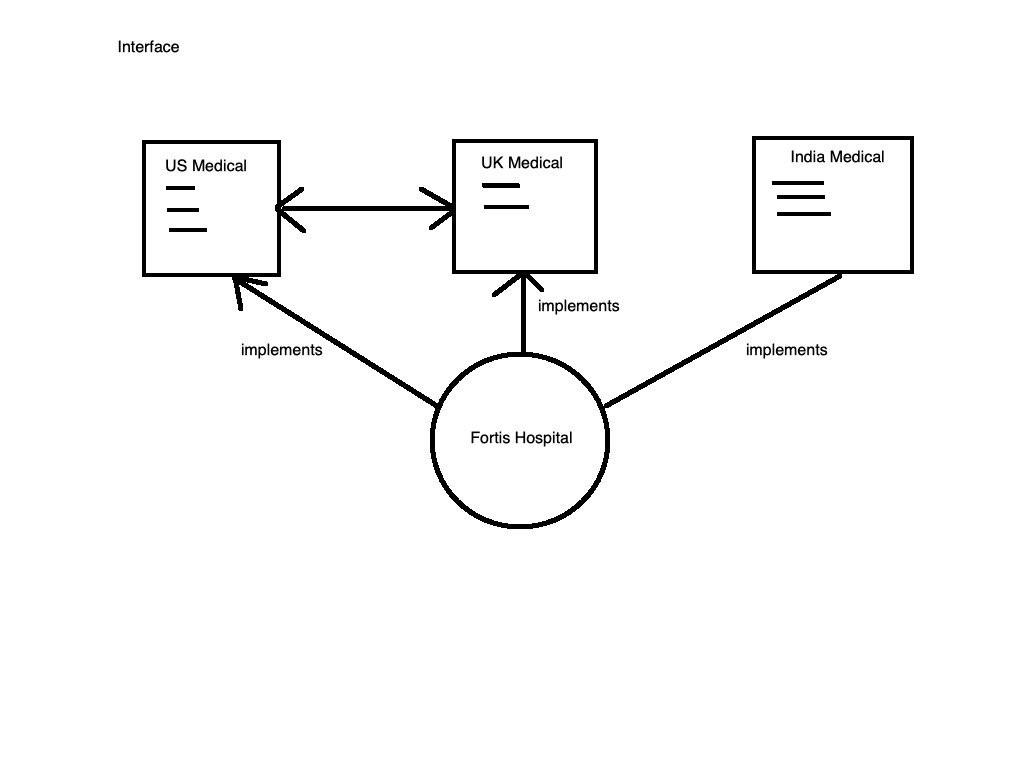
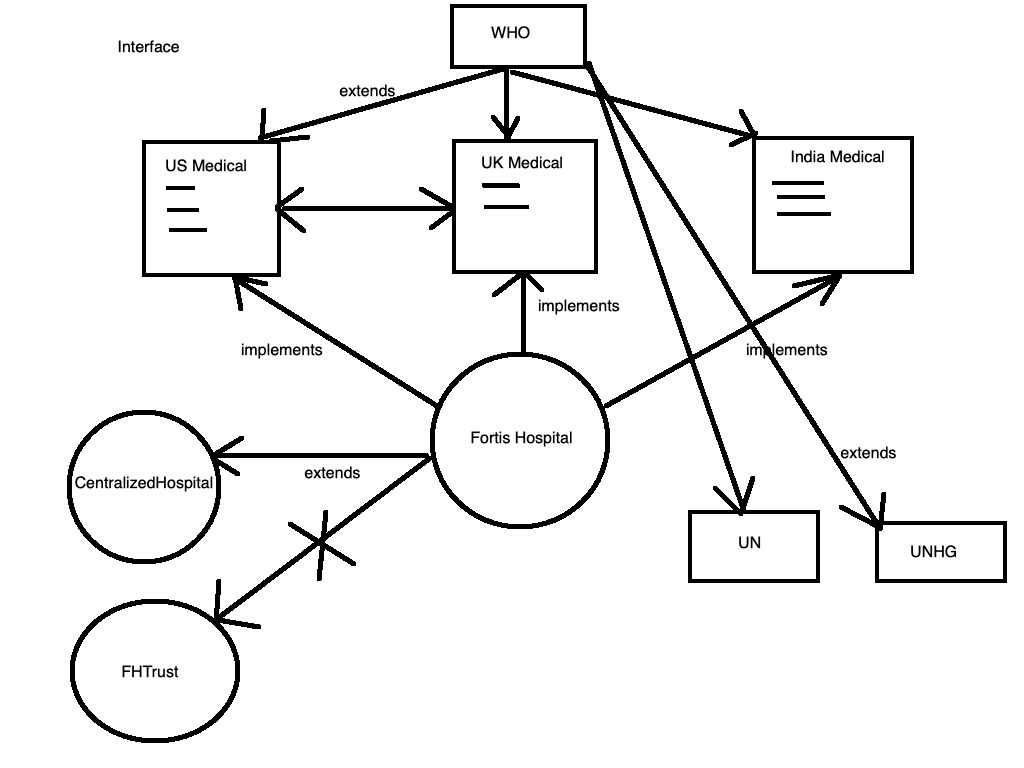
Feb 27

diff --git a/SeleniumWithJavaJan2023Session/src/OOP_Interface/FortisHospital.java b/SeleniumWithJavaJan2023Session/src/OOP_Interface/FortisHospital.java
@@ -1,45 +1,46 @@
 //Feb 23-2023-P4
 package OOP_Interface;
 
-public class FortisHospital implements USMedical, UKMedical, IndiaMedical{
+public class FortisHospital extends CentralizedHospital 
+							implements USMedical, UKMedical, IndiaMedical{
 
 	//US Medical
 	@Override
 	public void orthoServices() {
-		
+
 		System.out.println("FH---orthoServices");
-		
+
 	}
 
 	@Override
 	public void physioServices() {
-		
+
 		System.out.println("FH---physioServices");
-		
+
 	}
 
 	@Override
 	public void emergencyServices() {
-		
+
 		System.out.println("FH---emergencyServices");
 	}
 
-	
+
 	@Override
 	public void audiologyServices() {
 		System.out.println("FH---audiologyServies");
-		
+
 	}
 	//UK Medical
 	@Override
 	public void ENTServices() {
-		
+
 		System.out.println("FH---ENTServices");
 	}
 
 	@Override
 	public void pediaServices() {
-	
+
 		System.out.println("FH---pediaServices");
 	}
 
@@ -47,20 +48,29 @@ public class FortisHospital implements USMedical, UKMedical, IndiaMedical{
 	@Override
 	public void oncologyervices() {
 		System.out.println("FH---oncologyervices");
-		
+
 	}
 
 	@Override
 	public void cardioServices() {
 		System.out.println("FH---cardioServices");
-		
+
 	}
 
 	@Override
 	public void gyncServices() {
 		System.out.println("FH---gyncServices");
-		
+
 	}
 
-
+	// non-overridden methods
+	
+	public void OpdServices() {
+		System.out.println("FH--gyncServices");
+	}
+	
+	public void neuroServices() {
+		System.out.println("FH--neuroServices");
+	}
+	
 }

diff --git a/SeleniumWithJavaJan2023Session/src/OOP_Interface/TestHospital.java b/SeleniumWithJavaJan2023Session/src/OOP_Interface/TestHospital.java
@@ -1,0 +1,37 @@
+//Feb 27-2023-P1
+package OOP_Interface;
+
+public class TestHospital {
+
+	public static void main(String[] args) {
+
+		FortisHospital fh=new FortisHospital();
+		fh.orthoServices();
+		fh.audiologyServices();
+		fh.cardioServices();
+		fh.emergencyServices();
+		fh.ENTServices();
+		fh.physioServices();
+		fh.neuroServices();
+		fh.OpdServices();
+		fh.pediaServices();
+		fh.oncologyervices();
+		fh.pathology();
+		
+		//USMedical us=new USMedical(); not possible
+		
+		//Top casting
+		USMedical us=new FortisHospital();//child class object referred by parent interface variable
+		us.orthoServices();
+		us.audiologyServices();
+		us.physioServices();
+		us.emergencyServices();
+		
+		//us.neuroServices();reference check will fail
+		
+		
+		
+		
+	}
+
+}

diff --git a/SeleniumWithJavaJan2023Session/src/OOP_Inheritance/CarTest.java b/SeleniumWithJavaJan2023Session/src/OOP_Inheritance/CarTest.java
@@ -21,14 +21,22 @@ public class CarTest {
 		Car.wheels();//static methods
 		c.engine();
 		System.out.println("-------");
+		
+		
 		//Top Casting
 		Car c1=new BMW();//child class object referred by parent class reference variable
-		c1.start();
-		c1.stop();
+		c1.start();//overridden
+		c1.stop();//inheritance
+		c1.refuel();//inheritance
+		//c1.autoparking();-->reference type check
 		
 		
+		Vehicle v=new Vehicle();
+		v.engine();
 		
 		
+		Vehicle v1=new BMW();
+		v1.engine();
 		
 	}
 

diff --git a/SeleniumWithJavaJan2023Session/src/OOP_Interface/USMedical.java b/SeleniumWithJavaJan2023Session/src/OOP_Interface/USMedical.java
@@ -5,6 +5,7 @@ public interface USMedical {
 	
 	//No method body
 	//only method declaration --method prototype
+	//cannot create the object of an interface
 
 	public void orthoServices();
 	

diff --git a/SeleniumWithJavaJan2023Session/src/OOP_Interface/CentralizedHospital.java b/SeleniumWithJavaJan2023Session/src/OOP_Interface/CentralizedHospital.java
@@ -1,0 +1,10 @@
+//Feb 27-2023-P2
+package OOP_Interface;
+
+public class CentralizedHospital {
+
+	public void pathology() {
+		System.out.println("CentralizedHospital--pathology");
+	}
+	
+}

diff --git a/SeleniumWithJavaJan2023Session/src/OOP_Interface/UNHG.java b/SeleniumWithJavaJan2023Session/src/OOP_Interface/UNHG.java
@@ -1,0 +1,5 @@
+package OOP_Interface;
+
+public interface UNHG {
+
+}

diff --git a/SeleniumWithJavaJan2023Session/src/OOP_Interface/FHTrust.java b/SeleniumWithJavaJan2023Session/src/OOP_Interface/FHTrust.java
@@ -1,0 +1,5 @@
+package OOP_Interface;
+
+public class FHTrust {
+
+}

diff --git a/SeleniumWithJavaJan2023Session/src/OOP_Interface/WHO.java b/SeleniumWithJavaJan2023Session/src/OOP_Interface/WHO.java
@@ -1,0 +1,5 @@
+package OOP_Interface;
+
+public interface WHO {
+
+}

diff --git a/SeleniumWithJavaJan2023Session/src/OOP_Interface/UN.java b/SeleniumWithJavaJan2023Session/src/OOP_Interface/UN.java
@@ -1,0 +1,5 @@
+package OOP_Interface;
+
+public interface UN {
+
+}
